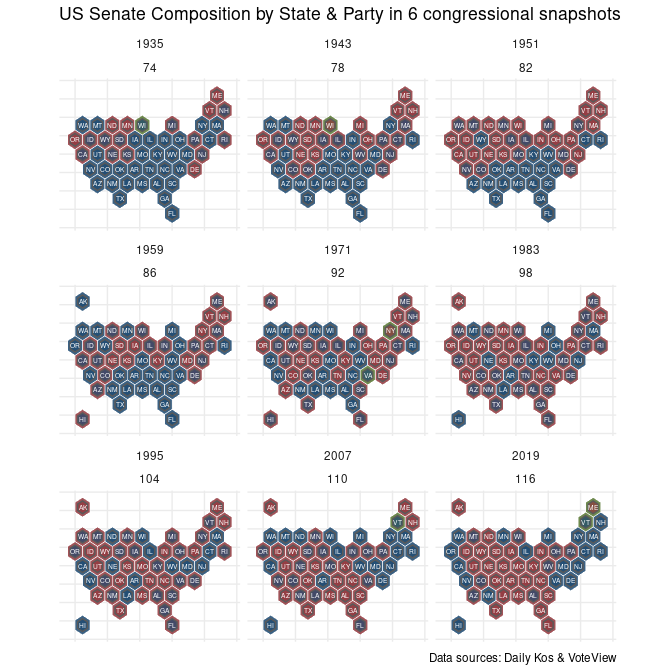
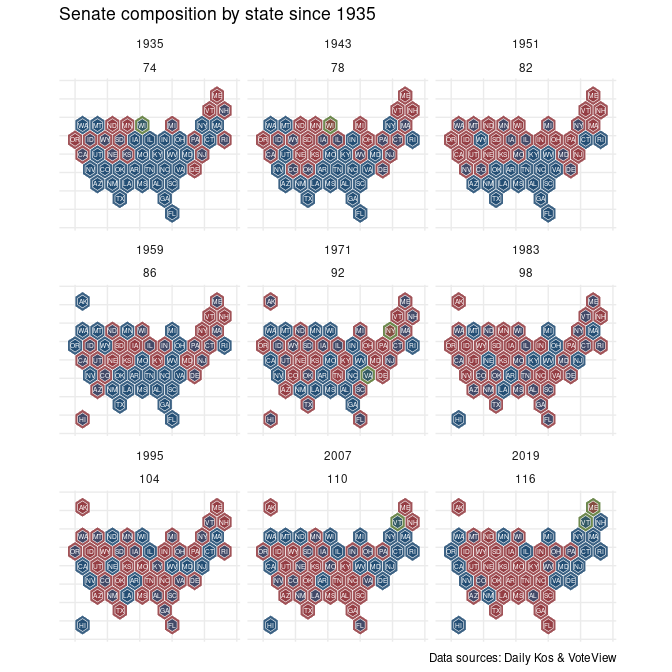
re

diff --git a/all-the-newness.md b/all-the-newness.md
@@ -145,8 +145,8 @@ vvo <- lapply(c('house', 'senate'), function(x) {
     filter(congress > 66 & chamber != 'President') })
 ```
 
-    ## [1] "/tmp/Rtmp1WcZxL/Hall_members.csv"
-    ## [1] "/tmp/Rtmp1WcZxL/Sall_members.csv"
+    ## [1] "/tmp/RtmpB2UT7N/Hall_members.csv"
+    ## [1] "/tmp/RtmpB2UT7N/Sall_members.csv"
 
 ``` r
 congress <- vvo %>%
@@ -172,7 +172,7 @@ congress <- vvo %>%
 Historical presidential election results
 ----------------------------------------
 
-### Margins pf vctory since 1956
+### §1 Margins pf vctory since 1956
 
 ``` r
 uspols::xsf_TileOutv10 %>%
@@ -201,7 +201,7 @@ uspols::xsf_TileOutv10 %>%
 
 ![](all-the-newness_files/figure-markdown_github/unnamed-chunk-8-1.png)
 
-### Last vote for a Democrat
+### §2 Last vote for a Democrat
 
 ``` r
 clean_prex <-  uspols::uspols_wiki_pres %>%
@@ -254,7 +254,7 @@ uspols::xsf_TileOutv10 %>%
 
 ![](all-the-newness_files/figure-markdown_github/unnamed-chunk-11-1.png)
 
-### Highest vote share historically
+### §3 Highest vote share historically
 
 ``` r
 vote_share <- clean_prex %>%
@@ -308,7 +308,7 @@ uspols::xsf_TileOutv10 %>%
 Senate composition: split-tickets & split-delegations
 -----------------------------------------------------
 
-### Split delegations
+### §4 Split delegations
 
 ``` r
 sens <- congress %>%
@@ -337,9 +337,12 @@ uspols::xsf_TileOutv10 %>%
           color = 'white', 
           lwd = 0.2,
           alpha = .85) + 
+  
   geom_sf(data = uspols::xsf_TileInv10 %>%
             left_join(sens %>% filter (layer == 1)), 
           aes(fill = party_name),
+          color = 'white', 
+          lwd = 0.2,
           alpha = .7) +
   
   ggsflabel::geom_sf_text(data = uspols::xsf_TileInv10,
@@ -353,11 +356,13 @@ uspols::xsf_TileOutv10 %>%
   theme(legend.position = 'none') +
   
   facet_wrap(~(year+1)+congress) +
-  labs(title = "US Senate Composition by State & Party in 6 congressional snapshots",
+  labs(title = "Senate composition by state since 1935",
        caption = 'Data sources: Daily Kos & VoteView')
 ```
 
 ![](all-the-newness_files/figure-markdown_github/unnamed-chunk-15-1.png)
+
+### §5 Total split delegations
 
 ``` r
 congress %>%
@@ -383,7 +388,7 @@ congress %>%
 
 ![](all-the-newness_files/figure-markdown_github/unnamed-chunk-16-1.png)
 
-### The end of split-ticket voting
+### §6 The end of split-ticket voting
 
 ``` r
 splits <- uspols::uspols_wiki_pres %>% 
@@ -448,7 +453,7 @@ congress_south <- congress %>%
                                        after = 3)) 
 ```
 
-### Political re-alignment in the South
+### §7 Political re-alignment in the South
 
 ``` r
 congress_south %>%
@@ -480,7 +485,7 @@ congress_south %>%
 
 ![](all-the-newness_files/figure-markdown_github/unnamed-chunk-20-1.png)
 
-### The birth of the Southern Republican
+### §8 The birth of the Southern Republican
 
 > The first captures ideological variation based in the standard
 > liberal-conservative dvide. The second captures variation based in
@@ -530,7 +535,7 @@ US House: Four generations of lawmakers
 -   Silent: 1928-1945
 -   Greatest: \< 1928
 
-### Average age by party
+### §9 Average age by party
 
 ``` r
 congress %>%
@@ -565,7 +570,7 @@ congress %>%
 
 ![](all-the-newness_files/figure-markdown_github/unnamed-chunk-22-1.png)
 
-### Shifting ditributions
+### §10 Shifting ditributions
 
 ``` r
 congress %>%
@@ -589,7 +594,7 @@ congress %>%
 
 ![](all-the-newness_files/figure-markdown_github/unnamed-chunk-23-1.png)
 
-### Watergte babies, and other freshman members
+### §11 Watergte babies, and other freshman members
 
 ``` r
 freshmen1 <- congress %>%
@@ -633,7 +638,7 @@ freshmen1 %>%
 
 ![](all-the-newness_files/figure-markdown_github/unnamed-chunk-24-1.png)
 
-### Millenials & Gen Xers
+### §12 Millenials & Gen Xers
 
 ``` r
 freshmen <- congress %>%
@@ -734,7 +739,7 @@ gen <-  tidycensus::get_acs(geography = 'congressional district',
   select(state_abbrev, district_code, variable, estimate, moe)
 ```
 
-### Profiling New Mexico’s 2nd dsitrict
+### §13 Profiling New Mexico’s 2nd dsitrict
 
 > A quick look at New Mexico’s 2nd district.
 
@@ -766,7 +771,7 @@ base_viz +
 
 ![](all-the-newness_files/figure-markdown_github/unnamed-chunk-31-1.png)
 
-### Socio-dem estmates & margins of victory
+### §14 Socio-dem estmates & margins of victory
 
 ``` r
 gen %>%
@@ -850,7 +855,7 @@ white_ed <- tidycensus::get_acs(geography = 'congressional district',
          district_code, group, per, estimate)
 ```
 
-### White working profiles
+### §15 White working profiles
 
 ``` r
 set.seed(99)
@@ -880,7 +885,7 @@ white_ed %>%
 
 ![](all-the-newness_files/figure-markdown_github/unnamed-chunk-35-1.png)
 
-### A working map
+### §16 A working map
 
 ``` r
 ## agg to states --
